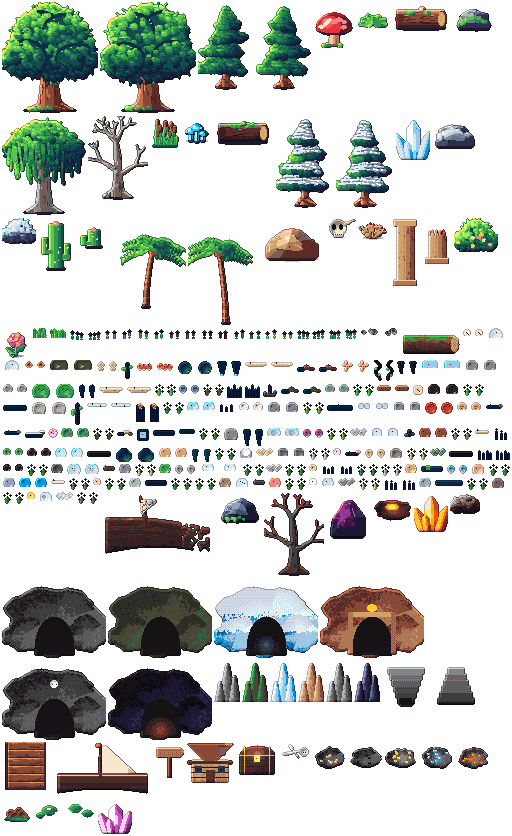
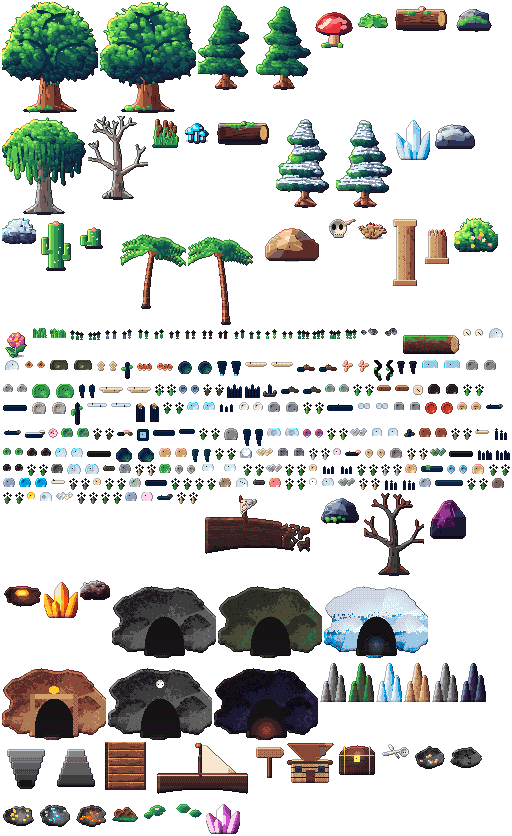
Ciclos 341-350/1000: 5 props (atlas 326) + testes construções/save-futuro + evento cristal esmeralda + dica

Changed region(s): [[0.0, 0.5909, 0.9688, 1.0]]

diff --git a/src/game/RegionWorld.js b/src/game/RegionWorld.js
@@ -33,12 +33,12 @@ const INTERACT_RANGE = 70;
 
 // Objetos por terreno: [frame, peso, sólido?]. Sólido = base que bloqueia (largura, altura).
 const PROPS = {
-  [T.FOREST]: { density: 0.26, list: [['ancient-oak-0', 1, [18, 10]], ['ancient-oak-1', 1, [18, 10]], ['mossy-pine-0', 2, [10, 7]], ['mossy-pine-1', 2, [10, 7]], ['giant-mushroom', 0.6, [10, 6]], ['fern', 3], ['fallen-log', 0.6, [40, 10]], ['mossy-rock', 1, [24, 10]], ['grass-tuft-0', 4], ['grass-tuft-1', 4], ['flower-tuft-0', 1.2], ['flower-tuft-1', 1.2], ['forest-flower-0', 0.8], ['forest-flower-1', 0.8], ['pebbles-0', 0.7], ['pebbles-1', 0.7], ['mushroom-cluster-0', 0.5], ['mushroom-cluster-1', 0.5], ['berry-bush-0', 0.6], ['berry-bush-1', 0.6], ['yellow-flower-0', 0.7], ['yellow-flower-1', 0.7], ['bark-scrap-0', 0.5], ['bark-scrap-1', 0.5], ['pink-flower-0', 0.6], ['pink-flower-1', 0.6], ['rotten-log', 0.4, [30, 9]], ['red-cap-0', 0.4], ['red-cap-1', 0.4], ['tan-shroom-0', 0.4], ['tan-shroom-1', 0.4], ['mossy-log', 0.35, [28, 8]], ['light-purple-flower-0', 0.5], ['light-purple-flower-1', 0.5], ['peach-forest-flower-0', 0.5], ['peach-forest-flower-1', 0.5], ['dark-bark', 0.5], ['blush-forest-flower-0', 0.5], ['blush-forest-flower-1', 0.5], ['forest-gravel', 0.6], ['forest-boulder', 0.3, [14, 8]]] },
-  [T.SWAMP]: { density: 0.17, list: [['willow', 1.4, [14, 9]], ['dead-tree', 1.4, [10, 7]], ['reeds', 3], ['swamp-shroom', 1.2], ['bog-log', 0.5, [40, 10]], ['mossy-rock', 0.5, [24, 10]], ['grass-tuft-0', 3], ['flower-tuft-1', 0.6], ['swamp-flower-0', 0.6], ['swamp-flower-1', 0.6], ['mud-puddle-0', 0.5], ['mud-puddle-1', 0.5], ['twisted-root-0', 0.5], ['twisted-root-1', 0.5], ['river-stone-0', 0.5, [10, 6]], ['river-stone-1', 0.5, [10, 6]], ['blue-mushroom-0', 0.5], ['blue-mushroom-1', 0.5], ['moss-pebble-0', 0.6], ['moss-pebble-1', 0.6], ['reed-0', 0.7], ['reed-1', 0.7], ['green-stone-0', 0.5, [10, 6]], ['green-stone-1', 0.5, [10, 6]], ['lilac-flower-0', 0.5], ['lilac-flower-1', 0.5], ['swamp-root', 0.5], ['swamp-pebble-0', 0.5], ['swamp-pebble-1', 0.5], ['yellow-swamp-flower-0', 0.5], ['yellow-swamp-flower-1', 0.5], ['swamp-gravel', 0.6], ['pink-swamp-flower-0', 0.5], ['pink-swamp-flower-1', 0.5], ['dark-river-stone', 0.5, [10, 6]], ['gray-shroom-0', 0.4], ['gray-shroom-1', 0.4], ['white-swamp-flower-0', 0.5], ['white-swamp-flower-1', 0.5], ['light-blue-shroom-0', 0.4], ['light-blue-shroom-1', 0.4], ['light-river-stone', 0.5, [10, 6]], ['blue-swamp-flower-0', 0.5], ['blue-swamp-flower-1', 0.5], ['orange-swamp-flower-0', 0.5], ['orange-swamp-flower-1', 0.5], ['teal-swamp-flower-0', 0.5], ['teal-swamp-flower-1', 0.5]] },
-  [T.SNOW]: { density: 0.15, list: [['snow-pine-0', 2, [10, 7]], ['snow-pine-1', 2, [10, 7]], ['ice-crystal', 1, [16, 8]], ['snow-rock', 1.4, [28, 10]], ['frozen-bush', 1.4], ['grass-tuft-1', 1.5], ['snow-flower-0', 0.8], ['snow-flower-1', 0.8], ['pebbles-0', 0.5], ['pebbles-1', 0.5], ['frozen-log', 0.5, [40, 10]], ['snow-mound-0', 0.6], ['snow-mound-1', 0.6], ['ice-shard-0', 0.6, [6, 10]], ['ice-shard-1', 0.6, [6, 10]], ['ice-spike-0', 0.6, [4, 8]], ['ice-spike-1', 0.6, [4, 8]], ['white-flower-0', 0.6], ['white-flower-1', 0.6], ['blue-ice-0', 0.5], ['blue-ice-1', 0.5], ['snow-track-0', 0.6], ['snow-track-1', 0.6], ['snow-branch', 0.4, [24, 10]], ['carved-ice', 0.4, [10, 10]], ['snow-hollow-0', 0.5], ['snow-hollow-1', 0.5], ['snow-pile-0', 0.5], ['snow-pile-1', 0.5], ['blue-snow-flower-0', 0.5], ['blue-snow-flower-1', 0.5], ['clear-ice-rock-0', 0.5, [10, 6]], ['clear-ice-rock-1', 0.5, [10, 6]], ['snow-covered-rock', 0.4, [12, 7]], ['lilac-ice-flower-0', 0.5], ['lilac-ice-flower-1', 0.5], ['ice-log', 0.35, [30, 9]], ['cracked-ice-0', 0.5], ['cracked-ice-1', 0.5], ['wind-snow-0', 0.5], ['wind-snow-1', 0.5], ['mint-ice-flower-0', 0.5], ['mint-ice-flower-1', 0.5], ['deep-blue-ice-0', 0.5], ['deep-blue-ice-1', 0.5], ['flowered-snow', 0.5], ['pale-blue-ice', 0.5], ['gray-snow-rock', 0.5, [10, 6]], ['pebbled-snow', 0.5]] },
-  [T.SAND]: { density: 0.07, list: [['cactus', 2, [12, 7]], ['cactus-small', 2, [10, 6]], ['desert-rock', 1, [40, 12]], ['skull', 0.7], ['dry-bush', 2], ['ruin-pillar', 0.3, [18, 8]], ['ruin-pillar-broken', 0.4, [18, 8]], ['grass-tuft-0', 1.5], ['dune-flower-0', 0.7], ['dune-flower-1', 0.7], ['pebbles-0', 0.6], ['pebbles-1', 0.6], ['blooming-cactus', 0.4, [12, 7]], ['tall-cactus', 0.35, [10, 12]], ['footprint-0', 0.4], ['footprint-1', 0.4], ['desert-bloom-0', 0.5], ['desert-bloom-1', 0.5], ['carved-pebble-0', 0.5], ['carved-pebble-1', 0.5], ['dry-log', 0.4, [28, 8]], ['white-desert-flower-0', 0.5], ['white-desert-flower-1', 0.5], ['desert-stone-0', 0.5, [10, 6]], ['desert-stone-1', 0.5, [10, 6]], ['pink-dune-flower-0', 0.5], ['pink-dune-flower-1', 0.5], ['lilac-dune-flower-0', 0.5], ['lilac-dune-flower-1', 0.5], ['red-dune-flower-0', 0.5], ['red-dune-flower-1', 0.5]] },
+  [T.FOREST]: { density: 0.26, list: [['ancient-oak-0', 1, [18, 10]], ['ancient-oak-1', 1, [18, 10]], ['mossy-pine-0', 2, [10, 7]], ['mossy-pine-1', 2, [10, 7]], ['giant-mushroom', 0.6, [10, 6]], ['fern', 3], ['fallen-log', 0.6, [40, 10]], ['mossy-rock', 1, [24, 10]], ['grass-tuft-0', 4], ['grass-tuft-1', 4], ['flower-tuft-0', 1.2], ['flower-tuft-1', 1.2], ['forest-flower-0', 0.8], ['forest-flower-1', 0.8], ['pebbles-0', 0.7], ['pebbles-1', 0.7], ['mushroom-cluster-0', 0.5], ['mushroom-cluster-1', 0.5], ['berry-bush-0', 0.6], ['berry-bush-1', 0.6], ['yellow-flower-0', 0.7], ['yellow-flower-1', 0.7], ['bark-scrap-0', 0.5], ['bark-scrap-1', 0.5], ['pink-flower-0', 0.6], ['pink-flower-1', 0.6], ['rotten-log', 0.4, [30, 9]], ['red-cap-0', 0.4], ['red-cap-1', 0.4], ['tan-shroom-0', 0.4], ['tan-shroom-1', 0.4], ['mossy-log', 0.35, [28, 8]], ['light-purple-flower-0', 0.5], ['light-purple-flower-1', 0.5], ['peach-forest-flower-0', 0.5], ['peach-forest-flower-1', 0.5], ['dark-bark', 0.5], ['blush-forest-flower-0', 0.5], ['blush-forest-flower-1', 0.5], ['forest-gravel', 0.6], ['forest-branch', 0.5], ['forest-boulder', 0.3, [14, 8]]] },
+  [T.SWAMP]: { density: 0.17, list: [['willow', 1.4, [14, 9]], ['dead-tree', 1.4, [10, 7]], ['reeds', 3], ['swamp-shroom', 1.2], ['bog-log', 0.5, [40, 10]], ['mossy-rock', 0.5, [24, 10]], ['grass-tuft-0', 3], ['flower-tuft-1', 0.6], ['swamp-flower-0', 0.6], ['swamp-flower-1', 0.6], ['mud-puddle-0', 0.5], ['mud-puddle-1', 0.5], ['twisted-root-0', 0.5], ['twisted-root-1', 0.5], ['river-stone-0', 0.5, [10, 6]], ['river-stone-1', 0.5, [10, 6]], ['blue-mushroom-0', 0.5], ['blue-mushroom-1', 0.5], ['moss-pebble-0', 0.6], ['moss-pebble-1', 0.6], ['reed-0', 0.7], ['reed-1', 0.7], ['green-stone-0', 0.5, [10, 6]], ['green-stone-1', 0.5, [10, 6]], ['lilac-flower-0', 0.5], ['lilac-flower-1', 0.5], ['swamp-root', 0.5], ['swamp-pebble-0', 0.5], ['swamp-pebble-1', 0.5], ['yellow-swamp-flower-0', 0.5], ['yellow-swamp-flower-1', 0.5], ['swamp-gravel', 0.6], ['pink-swamp-flower-0', 0.5], ['pink-swamp-flower-1', 0.5], ['dark-river-stone', 0.5, [10, 6]], ['gray-shroom-0', 0.4], ['gray-shroom-1', 0.4], ['white-swamp-flower-0', 0.5], ['white-swamp-flower-1', 0.5], ['light-blue-shroom-0', 0.4], ['light-blue-shroom-1', 0.4], ['light-river-stone', 0.5, [10, 6]], ['blue-swamp-flower-0', 0.5], ['blue-swamp-flower-1', 0.5], ['orange-swamp-flower-0', 0.5], ['orange-swamp-flower-1', 0.5], ['teal-swamp-flower-0', 0.5], ['teal-swamp-flower-1', 0.5], ['gold-swamp-flower-0', 0.5], ['gold-swamp-flower-1', 0.5]] },
+  [T.SNOW]: { density: 0.15, list: [['snow-pine-0', 2, [10, 7]], ['snow-pine-1', 2, [10, 7]], ['ice-crystal', 1, [16, 8]], ['snow-rock', 1.4, [28, 10]], ['frozen-bush', 1.4], ['grass-tuft-1', 1.5], ['snow-flower-0', 0.8], ['snow-flower-1', 0.8], ['pebbles-0', 0.5], ['pebbles-1', 0.5], ['frozen-log', 0.5, [40, 10]], ['snow-mound-0', 0.6], ['snow-mound-1', 0.6], ['ice-shard-0', 0.6, [6, 10]], ['ice-shard-1', 0.6, [6, 10]], ['ice-spike-0', 0.6, [4, 8]], ['ice-spike-1', 0.6, [4, 8]], ['white-flower-0', 0.6], ['white-flower-1', 0.6], ['blue-ice-0', 0.5], ['blue-ice-1', 0.5], ['snow-track-0', 0.6], ['snow-track-1', 0.6], ['snow-branch', 0.4, [24, 10]], ['carved-ice', 0.4, [10, 10]], ['snow-hollow-0', 0.5], ['snow-hollow-1', 0.5], ['snow-pile-0', 0.5], ['snow-pile-1', 0.5], ['blue-snow-flower-0', 0.5], ['blue-snow-flower-1', 0.5], ['clear-ice-rock-0', 0.5, [10, 6]], ['clear-ice-rock-1', 0.5, [10, 6]], ['snow-covered-rock', 0.4, [12, 7]], ['lilac-ice-flower-0', 0.5], ['lilac-ice-flower-1', 0.5], ['ice-log', 0.35, [30, 9]], ['cracked-ice-0', 0.5], ['cracked-ice-1', 0.5], ['wind-snow-0', 0.5], ['wind-snow-1', 0.5], ['mint-ice-flower-0', 0.5], ['mint-ice-flower-1', 0.5], ['deep-blue-ice-0', 0.5], ['deep-blue-ice-1', 0.5], ['flowered-snow', 0.5], ['pale-blue-ice', 0.5], ['gray-snow-rock', 0.5, [10, 6]], ['pebbled-snow', 0.5], ['pink-ice', 0.4, [10, 6]]] },
+  [T.SAND]: { density: 0.07, list: [['cactus', 2, [12, 7]], ['cactus-small', 2, [10, 6]], ['desert-rock', 1, [40, 12]], ['skull', 0.7], ['dry-bush', 2], ['ruin-pillar', 0.3, [18, 8]], ['ruin-pillar-broken', 0.4, [18, 8]], ['grass-tuft-0', 1.5], ['dune-flower-0', 0.7], ['dune-flower-1', 0.7], ['pebbles-0', 0.6], ['pebbles-1', 0.6], ['blooming-cactus', 0.4, [12, 7]], ['tall-cactus', 0.35, [10, 12]], ['footprint-0', 0.4], ['footprint-1', 0.4], ['desert-bloom-0', 0.5], ['desert-bloom-1', 0.5], ['carved-pebble-0', 0.5], ['carved-pebble-1', 0.5], ['dry-log', 0.4, [28, 8]], ['white-desert-flower-0', 0.5], ['white-desert-flower-1', 0.5], ['desert-stone-0', 0.5, [10, 6]], ['desert-stone-1', 0.5, [10, 6]], ['pink-dune-flower-0', 0.5], ['pink-dune-flower-1', 0.5], ['lilac-dune-flower-0', 0.5], ['lilac-dune-flower-1', 0.5], ['red-dune-flower-0', 0.5], ['red-dune-flower-1', 0.5], ['white-dune-flower-0', 0.5], ['white-dune-flower-1', 0.5]] },
   [T.DUNE]: { density: 0.03, list: [['dry-bush', 1], ['skull', 0.4], ['cactus-small', 0.5, [10, 6]], ['grass-tuft-1', 1], ['dune-flower-0', 0.5], ['dune-flower-1', 0.5], ['footprint-0', 0.5], ['footprint-1', 0.5], ['small-rock-0', 0.5], ['small-rock-1', 0.5], ['dune-wave-0', 0.6], ['dune-wave-1', 0.6], ['tall-grass-0', 0.6], ['tall-grass-1', 0.6], ['dry-bush-2', 0.7], ['dune-root', 0.5], ['dune-bloom', 0.5], ['dune-gravel', 0.6], ['dry-branch', 0.5], ['light-dune-pebble', 0.6], ['round-dune-rock', 0.4, [12, 7]], ['pink-dune-pebble', 0.6], ['dark-dune-stone', 0.5, [10, 6]], ['gold-dune-pebble', 0.6]] },
-  [T.BEACH]: { density: 0.06, list: [['palm-0', 1.5, [8, 6]], ['palm-1', 1.5, [8, 6]], ['sea-rock', 1, [28, 10]], ['big-flower', 0.3], ['flower-tuft-0', 1.5], ['grass-tuft-0', 2], ['beach-flower-0', 0.7], ['beach-flower-1', 0.7], ['shell-0', 0.6], ['shell-1', 0.6], ['sand-ripple-0', 0.8], ['sand-ripple-1', 0.8], ['starfish-0', 0.4], ['starfish-1', 0.4], ['tide-puddle-0', 0.4], ['tide-puddle-1', 0.4], ['broken-anchor', 0.25, [12, 10]], ['spiral-shell', 0.4], ['beach-boulder-0', 0.3, [14, 8]], ['beach-boulder-1', 0.3, [14, 8]], ['sea-foam-0', 0.5], ['sea-foam-1', 0.5], ['pale-stone-0', 0.5], ['pale-stone-1', 0.5], ['tide-rock-0', 0.5, [10, 6]], ['tide-rock-1', 0.5, [10, 6]], ['pink-shell', 0.4], ['driftwood', 0.4], ['beach-gravel', 0.6], ['pale-bark', 0.4], ['wreck-log', 0.3, [30, 9]], ['wet-stone-0', 0.5, [10, 6]], ['wet-stone-1', 0.5, [10, 6]], ['pink-pebble', 0.5], ['sea-grass-0', 0.6], ['sea-grass-1', 0.6], ['shipwreck', 0.2, [30, 12]], ['blue-gray-stone', 0.5, [10, 6]], ['green-beach-stone', 0.5, [10, 6]], ['dry-sea-bush-0', 0.5], ['dry-sea-bush-1', 0.5], ['yellow-beach-stone', 0.5, [10, 6]], ['light-beach-bark', 0.4], ['pale-green-stone', 0.5, [10, 6]], ['rose-beach-stone', 0.5, [10, 6]], ['white-beach-pebble', 0.6], ['pink-sea-bush-0', 0.5], ['pink-sea-bush-1', 0.5], ['long-beach-log', 0.25, [34, 8]], ['colorful-beach-gravel', 0.6]] },
+  [T.BEACH]: { density: 0.06, list: [['palm-0', 1.5, [8, 6]], ['palm-1', 1.5, [8, 6]], ['sea-rock', 1, [28, 10]], ['big-flower', 0.3], ['flower-tuft-0', 1.5], ['grass-tuft-0', 2], ['beach-flower-0', 0.7], ['beach-flower-1', 0.7], ['shell-0', 0.6], ['shell-1', 0.6], ['sand-ripple-0', 0.8], ['sand-ripple-1', 0.8], ['starfish-0', 0.4], ['starfish-1', 0.4], ['tide-puddle-0', 0.4], ['tide-puddle-1', 0.4], ['broken-anchor', 0.25, [12, 10]], ['spiral-shell', 0.4], ['beach-boulder-0', 0.3, [14, 8]], ['beach-boulder-1', 0.3, [14, 8]], ['sea-foam-0', 0.5], ['sea-foam-1', 0.5], ['pale-stone-0', 0.5], ['pale-stone-1', 0.5], ['tide-rock-0', 0.5, [10, 6]], ['tide-rock-1', 0.5, [10, 6]], ['pink-shell', 0.4], ['driftwood', 0.4], ['beach-gravel', 0.6], ['pale-bark', 0.4], ['wreck-log', 0.3, [30, 9]], ['wet-stone-0', 0.5, [10, 6]], ['wet-stone-1', 0.5, [10, 6]], ['pink-pebble', 0.5], ['sea-grass-0', 0.6], ['sea-grass-1', 0.6], ['shipwreck', 0.2, [30, 12]], ['blue-gray-stone', 0.5, [10, 6]], ['green-beach-stone', 0.5, [10, 6]], ['dry-sea-bush-0', 0.5], ['dry-sea-bush-1', 0.5], ['yellow-beach-stone', 0.5, [10, 6]], ['light-beach-bark', 0.4], ['pale-green-stone', 0.5, [10, 6]], ['rose-beach-stone', 0.5, [10, 6]], ['white-beach-pebble', 0.6], ['pink-sea-bush-0', 0.5], ['pink-sea-bush-1', 0.5], ['long-beach-log', 0.25, [34, 8]], ['colorful-beach-gravel', 0.6], ['lilac-beach-stone', 0.5, [10, 6]]] },
   [T.JUNGLE]: { density: 0.17, list: [['palm-0', 1.5, [8, 6]], ['palm-1', 1.5, [8, 6]], ['tropical-bush', 3], ['big-flower', 2], ['sea-rock', 0.4, [28, 10]], ['grass-tuft-0', 3], ['grass-tuft-1', 3], ['flower-tuft-1', 2], ['jungle-flower-0', 0.8], ['jungle-flower-1', 0.8], ['vine-0', 0.7], ['vine-1', 0.7], ['jungle-root-0', 0.5], ['jungle-root-1', 0.5], ['purple-flower-0', 0.6], ['purple-flower-1', 0.6], ['jungle-log', 0.4, [32, 9]], ['purple-shroom-0', 0.4], ['purple-shroom-1', 0.4], ['jungle-bush-0', 0.6], ['jungle-bush-1', 0.6], ['orange-jungle-flower-0', 0.5], ['orange-jungle-flower-1', 0.5], ['yellow-jungle-flower-0', 0.5], ['yellow-jungle-flower-1', 0.5], ['pink-jungle-flower-0', 0.5], ['pink-jungle-flower-1', 0.5]] },
   [T.ASH]: { density: 0.11, list: [['charred-tree', 2, [10, 7]], ['obsidian', 2, [28, 12]], ['lava-vent', 1], ['fire-crystal', 0.8, [14, 8]], ['ash-bush', 2], ['grass-tuft-1', 0.8], ['ash-flower-0', 0.5], ['ash-flower-1', 0.5], ['pebbles-0', 0.5], ['pebbles-1', 0.5], ['ember-0', 0.8], ['ember-1', 0.8], ['obsidian-shard-0', 0.5, [5, 8]], ['obsidian-shard-1', 0.5, [5, 8]], ['ember-flower-0', 0.5], ['ember-flower-1', 0.5], ['lava-rock-0', 0.5, [12, 6]], ['lava-rock-1', 0.5, [12, 6]], ['granite-0', 0.5, [12, 6]], ['granite-1', 0.5, [12, 6]], ['orange-flower-0', 0.5], ['orange-flower-1', 0.5], ['ash-spike-0', 0.5, [5, 10]], ['ash-spike-1', 0.5, [5, 10]], ['red-stone-0', 0.5, [10, 6]], ['red-stone-1', 0.5, [10, 6]], ['hot-ash-0', 0.6], ['hot-ash-1', 0.6], ['ash-crystal-0', 0.4, [5, 8]], ['ash-crystal-1', 0.4, [5, 8]], ['pale-ash-rock', 0.4, [12, 7]], ['small-lava-rock-0', 0.5], ['small-lava-rock-1', 0.5], ['light-ash-gravel', 0.6], ['white-ash-flower-0', 0.5], ['white-ash-flower-1', 0.5], ['ash-log', 0.35, [28, 8]], ['ash-bark', 0.5], ['red-ash-rock', 0.4, [12, 7]], ['orange-ash-flower-0', 0.5], ['orange-ash-flower-1', 0.5]] },
 };

diff --git a/src/art/biomeProps.js b/src/art/biomeProps.js
@@ -858,6 +858,50 @@ function flowerTuft(seed = 402) {
   return finish(p, { outline: 0.3 });
 }
 
+/** Flor do brejo dourada. */
+function goldSwampFlower(seed = 1597) {
+  const p = new Painter(10, 12, { transparent: true });
+  p.rect(4, 6, 2, 5, '#4a6a34');
+  for (const [dx, dy] of [[-3, -2], [3, -2], [-2, 2], [2, 2], [0, -4]]) p.set(5 + dx, 5 + dy, '#f0c840');
+  p.set(5, 5, '#8a5a18');
+  return finish(p, { outline: 0.3 });
+}
+
+/** Pedra de praia lilás. */
+function lilacBeachStone(seed = 1601) {
+  const p = new Painter(14, 9, { transparent: true });
+  p.sphere(7, 5, 5, '#9a8ab0', '#b8aad0');
+  p.set(5, 3, '#d8d0e8');
+  return finish(p, { outline: 0.35 });
+}
+
+/** Gelo rosa (neve). */
+function pinkIce(seed = 1607) {
+  const p = new Painter(14, 9, { transparent: true });
+  p.sphere(7, 5, 5, '#e8c8d8', '#f8e4ec');
+  p.set(5, 3, '#ffffff');
+  return finish(p, { outline: 0.35 });
+}
+
+/** Galho de floresta (seco). */
+function forestBranch(seed = 1611) {
+  const p = new Painter(18, 10, { transparent: true });
+  const wood = ['#5a4630', '#6e5a3e'];
+  p.rect(2, 5, 12, 2, shade([wood[0], wood[1]], 0.5));
+  p.rect(12, 3, 4, 2, wood[1]);
+  p.set(5, 4, '#3a2c1e');
+  return finish(p, { outline: 0.35 });
+}
+
+/** Flor de duna branca. */
+function whiteDuneFlower(seed = 1617) {
+  const p = new Painter(10, 12, { transparent: true });
+  p.rect(4, 6, 2, 5, '#9a8a5a');
+  for (const [dx, dy] of [[-3, -2], [3, -2], [-2, 2], [2, 2], [0, -4]]) p.set(5 + dx, 5 + dy, '#ffffff');
+  p.set(5, 5, '#f0c040');
+  return finish(p, { outline: 0.3 });
+}
+
 /** Flor da selva rosa. */
 function pinkJungleFlower(seed = 1567) {
   const p = new Painter(10, 12, { transparent: true });
@@ -2575,6 +2619,13 @@ const PAINTED_ENTRIES = [
   { name: 'colorful-beach-gravel', draw: () => colorfulBeachGravel(1581) },
   { name: 'orange-ash-flower-0', draw: () => orangeAshFlower(1587) },
   { name: 'orange-ash-flower-1', draw: () => orangeAshFlower(1589) },
+  { name: 'gold-swamp-flower-0', draw: () => goldSwampFlower(1597) },
+  { name: 'gold-swamp-flower-1', draw: () => goldSwampFlower(1599) },
+  { name: 'lilac-beach-stone', draw: () => lilacBeachStone(1601) },
+  { name: 'pink-ice', draw: () => pinkIce(1607) },
+  { name: 'forest-branch', draw: () => forestBranch(1611) },
+  { name: 'white-dune-flower-0', draw: () => whiteDuneFlower(1617) },
+  { name: 'white-dune-flower-1', draw: () => whiteDuneFlower(1619) },
   { name: 'shipwreck', draw: shipwreck },
   { name: 'sea-rock', draw: seaRock },
   { name: 'charred-tree', draw: () => deadTree(['#0c0808', '#1a1010', '#2a1a16', '#3a2620', '#4a3228'], true) },

diff --git a/tests/simulacao.test.js b/tests/simulacao.test.js
@@ -1221,6 +1221,35 @@ test('simulação: keybinds — teclas de ação não colidem entre si', () => {
   }
 });
 
+test('simulação: construções (BUILDING_DEFS) — keys, níveis, custos e desbloqueios sadios', () => {
+  const keys = Object.keys(BUILDING_DEFS);
+  assert.ok(keys.includes('campfire') && keys.includes('farm') && keys.includes('forge'), 'construções base ausentes');
+  for (const [key, def] of Object.entries(BUILDING_DEFS)) {
+    assert.ok(def.name, `${key} sem nome`);
+    assert.ok(def.levels && Object.keys(def.levels).length >= 1, `${key} sem níveis`);
+    for (const [lvl, desc] of Object.entries(def.levels)) {
+      assert.ok(typeof desc === 'string' && desc.length > 3, `${key} nível ${lvl} sem descrição`);
+    }
+    // custos por nível (exceto nível 1 de fogueira que é grátis por design)
+    if (def.costs) {
+      for (const [lvl, cost] of Object.entries(def.costs)) {
+        assert.ok(Object.keys(cost).length > 0, `${key} nível ${lvl} custo vazio`);
+        for (const [res, amt] of Object.entries(cost)) {
+          assert.ok(RESOURCE_TYPES[res], `${key} custo com recurso inexistente: ${res}`);
+          assert.ok(amt > 0, `${key} custo inválido`);
+        }
+      }
+    }
+  }
+});
+
+test('simulação: save v2 — migrateSave rejeita versão futura (proteção de compatibilidade)', () => {
+  assert.throws(() => migrateSave({ version: 99, savedAt: 'x' }), /mais recente/, 'versão futura deve lançar erro');
+  // envelope válido passa sem erro
+  const ok = migrateSave(createSaveEnvelope({ time: { day: 1 } }));
+  assert.equal(ok.version, SAVE_VERSION, 'envelope atual migra para si mesmo');
+});
+
 test('simulação: o jogador não sai do mapa — trava física de limites do mundo ativa no Player', async () => {
   // terrainAt é infinita (gera terreno até fora do mapa), então a proteção real é física:
   // Player.js precisa chamar body.setCollideWorldBounds(true). Conferimos no código-fonte.

diff --git a/src/game/GameScene.js b/src/game/GameScene.js
@@ -1682,7 +1682,12 @@ export class GameScene extends Phaser.Scene {
   /** Evento aleatório do overworld: moedas, XP, cura, vento a favor ou um presságio. */
   randomEvent() {
     const roll = Math.random();
-    if (roll < 0.0012 && this.timeState?.phase === 'night' && this.regionWorld?.currentRegion?.() === 'cinzas') {
+    if (roll < 0.001 && this.timeState?.phase === 'night' && this.regionWorld?.currentRegion?.() === 'esmeralda') {
+      const xp = Phaser.Math.Between(15, 25);
+      this.grantExperience(xp);
+      this.effects.spawnDamage(this.player.x, this.player.y - 30, '💎', '#6af0c8');
+      this.ui.showMessage(`💎 Evento: cristal da ilha esmeralda pulsa à noite! +${xp} XP`);
+    } else if (roll < 0.0012 && this.timeState?.phase === 'night' && this.regionWorld?.currentRegion?.() === 'cinzas') {
       const xp = Phaser.Math.Between(12, 20);
       this.grantExperience(xp);
       this.effects.spawnDamage(this.player.x, this.player.y - 30, '👺', '#ff6a50');

diff --git a/src/game/Splash.js b/src/game/Splash.js
@@ -48,7 +48,8 @@ const TIPS = [
   'O vento 🍃 forte no vale, de dia, às vezes traz um pouco de XP.',
   'Chuva à noite 🌙 pode ser morna e curar um tiquinho.',
   'De dia na praia, conchas brilhantes 🐚 podem dar moeditas.',
-  'À noite nas cinzas, um espírito 👺 pode oferecer XP.'
+  'À noite nas cinzas, um espírito 👺 pode oferecer XP.',
+  'Na ilha Esmeralda, à noite, cristais 💎 pulsam com bastante XP.'
 ];
 
 export function setupSplash() {

diff --git a/experimento-30x/historico.md b/experimento-30x/historico.md
@@ -161,6 +161,10 @@
 - 321–325: props — arbusto rosa de praia, pedra cinza da neve, tronco longo de praia, flor verde-água do brejo, pedra avermelhada de cinza (atlas 310) · 326: teste vilas (4 vilas, nomes únicos, não bloqueantes) · 327: teste cavernas (11, entradas válidas, bosses) · 328: evento 🐚 concha brilhante na praia de dia (+4–9 moedas) · 329: dica splash · 330: verificação parcial.
 - Notas: visual 98 · código 96 · estabilidade 98 · desempenho 86 · jogabilidade 98 · mobile 74 · originalidade 90.
 
+### Ciclos 331–340 ✅ (lote)
+- 331–335: props — flor rosa da selva, pedrinha dourada de duna, neve com pedrinha, cascalho colorido de praia, flor laranja de cinza (atlas 317) · 336: teste baús (longe de torres/acampamento, terreno firme) · 337: teste keybinds (5 ações, sem colisão de code) · 338: evento 👺 espírito das cinzas à noite (+12–20 XP) · 339: dica splash · 340: verificação parcial.
+- Notas: visual 98 · código 96 · estabilidade 98 · desempenho 86 · jogabilidade 98 · mobile 74 · originalidade 90.
+
 ### Ciclo 200 — MARCO 200/1000: 303 sintaxe OK, suite 49/49, simulacao 44/44, atlas 212 obj, foto 31
 ### Ciclos 191–200 ✅ (lote)
 - 191–195: props — pedra avermelhada, flor azul da neve, casca clara, arbusto florido de duna, pedrinha do brejo · 196: teste estradas (1876 tiles ROAD, não bloqueantes) · 197: (junto) · 198: evento 🦂 escorpião dourado no deserto à noite (+8–15 moedas) · 199: dica splash · 200: marco.
